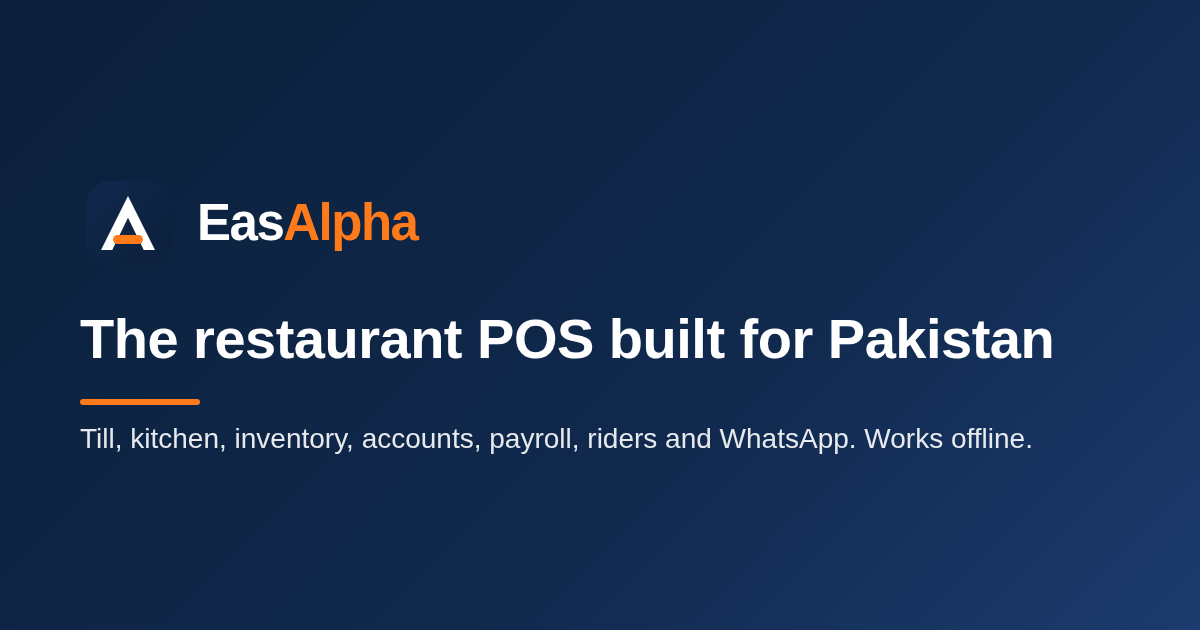
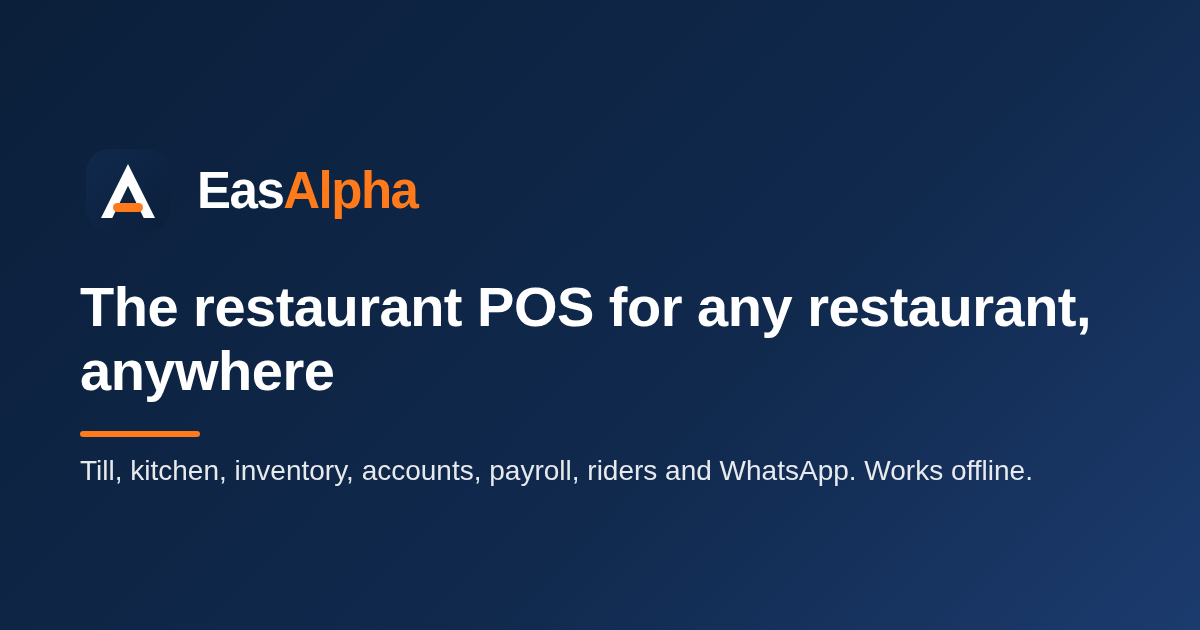
Plans: Pro 10 tills, Business unlimited; support 24/7; one tagline; ArfaPOS page removed
- Pro includes 10 tills (was 3) and Business unlimited tills (was 10), branches still up to 20.
  A nil till limit means unlimited: Billing::Issuer never bills extra tills on it, and migration
  20261017150000 updates the stored plans. The admin Plan estimate now matches the invoice
  (plan price plus each extra till, in rupees or dollars by country) instead of multiplying the
  plan price by the till count.
- Support is 24/7: the platform default, the site, the contact page, the welcome email, the
  terms and the office hours in JSON-LD (00:00 to 23:59). Migration 20261017151000 clears a
  stored value that still holds the old default.
- The share image says "The restaurant POS for any restaurant, anywhere", the tagline the
  title, homepage and footer already use; its URL is versioned so WhatsApp fetches the new one,
  and the Open Graph locale is en_US.
- /arfapos-alternative is taken down and redirects permanently to /pricing; five guides remain.

Changed region(s): [[0.0617, 0.4524, 0.925, 0.7841], [0.1542, 0.2714, 0.37, 0.3921], [0.0617, 0.2714, 0.1233, 0.3921]]

diff --git a/easalpha-web/src/app/(admin)/admin/settings/plan/page.tsx b/easalpha-web/src/app/(admin)/admin/settings/plan/page.tsx
@@ -3,13 +3,14 @@ import { useState } from "react";
 import { useQuery } from "@tanstack/react-query";
 import { BadgeDollarSign, CreditCard } from "lucide-react";
 import { api } from "@/lib/api";
-import type { Billing, BillingInvoice, BillingPlan } from "@/lib/types";
+import type { Billing, BillingInvoice } from "@/lib/types";
 import { formatMoney } from "@/lib/money";
 import { formatDate, formatDateTime } from "@/lib/dates";
 import { titleCase } from "@/lib/utils";
 import { Cards, PageHeader } from "@/components/admin/page";
 import { useAction } from "@/components/admin/crud";
 import { Badge, Button, Card, CardBody, CardHeader, CardTitle, Dialog, EmptyRow, Field, Input, Loading, Select, SummaryCard, Table, TBody, TD, TH, THead, TR, type BadgeVariant } from "@/components/ui";
+import { EXTRA_TILL_MINOR, billingCurrency, includedTills, planEstimate } from "@/lib/plan-price";
 
 // SPEC Plan: the subscription tier (Business in the reviewed account), trial or subscription state, invoices, and
 // how to pay. Choosing a plan issues an invoice; the owner reports the payment and EasAlpha confirms it.
@@ -44,14 +45,13 @@ export default function PlanPage() {
   const sub = b.subscription;
   const biz = b.business;
   const current = b.plans.find((p) => p.code === (sub?.plan_code ?? biz.plan?.code));
-  const price = (p: BillingPlan, cycle: "monthly" | "yearly") => (cycle === "yearly" ? p.price_pkr_minor * 10 : p.price_pkr_minor);
   const unpaid = b.invoices.filter((i) => ["unpaid", "pending", "overdue", "issued"].includes(i.status));
   const pi = b.payment_instructions;
   return (
     <>
       <PageHeader icon={BadgeDollarSign} title="Plan" description="Your subscription tier, what it allows, and the invoices behind it." actions={<Button onClick={() => setChoose({ plan_code: current?.code ?? b.plans[0]?.code ?? "", cycle: (sub?.billing_cycle as "monthly" | "yearly") ?? "monthly", tills: String(sub?.tills ?? 1) })}><CreditCard className="h-4 w-4" /> Choose plan</Button>} />
       <Cards>
-        <SummaryCard label="Current plan" value={current?.name ?? biz.plan?.name ?? "None"} sub={sub ? `${titleCase(sub.billing_cycle)} · ${sub.tills} till${sub.tills === 1 ? "" : "s"}` : biz.status === "trial" ? "On trial" : ""} />
+        <SummaryCard label="Current plan" value={current?.name ?? biz.plan?.name ?? "None"} sub={sub ? `${titleCase(sub.billing_cycle)} · ${tillsLabel(current ? includedTills(current) : 1, sub.tills)}` : biz.status === "trial" ? "On trial" : ""} />
         <SummaryCard label="State" value={<Badge variant={subscriptionVariant(sub?.status ?? biz.status)} className="text-sm">{titleCase(sub?.status ?? biz.status)}</Badge>}
           sub={biz.trial_ends_on && (sub?.status === "trialing" || biz.status === "trial") ? `Trial ends ${formatDate(biz.trial_ends_on)} (${biz.trial_days_left} days left)` : sub?.current_period_end ? `Period ends ${formatDate(sub.current_period_end)}` : ""} tone="info" />
         <SummaryCard label="Open invoices" value={unpaid.length} sub={unpaid.length ? formatMoney(unpaid.reduce((a, i) => a + i.amount_minor, 0)) + " due" : "Nothing due"} tone={unpaid.length ? "warning" : "success"} />
@@ -116,7 +116,7 @@ export default function PlanPage() {
             <Field label="Plan"><Select value={choose.plan_code} onChange={(e) => setChoose({ ...choose, plan_code: e.target.value })}>{b.plans.map((p) => <option key={p.code} value={p.code}>{p.name} - {formatMoney(p.price_pkr_minor)}/month</option>)}</Select></Field>
             <Field label="Billing cycle" hint="Yearly is ten months for the price of twelve"><Select value={choose.cycle} onChange={(e) => setChoose({ ...choose, cycle: e.target.value as "monthly" | "yearly" })}><option value="monthly">Monthly</option><option value="yearly">Yearly</option></Select></Field>
             <Field label="Tills"><Input type="number" min={1} className="tabular" value={choose.tills} onChange={(e) => setChoose({ ...choose, tills: e.target.value })} /></Field>
-            {(() => { const p = b.plans.find((x) => x.code === choose.plan_code); return p ? <p className="rounded-md bg-muted px-3 py-2 text-sm">Invoice for about <span className="font-medium">{formatMoney(price(p, choose.cycle) * Math.max(1, Number(choose.tills) || 1))}</span> per {choose.cycle === "yearly" ? "year" : "month"}. The exact amount is on the invoice.</p> : null; })()}
+            {(() => { const p = b.plans.find((x) => x.code === choose.plan_code); if (!p) return null; const inc = includedTills(p); const cur = billingCurrency(biz.country); return <p className="rounded-md bg-muted px-3 py-2 text-sm">Invoice for about <span className="font-medium">{formatMoney(planEstimate(p, choose.cycle, Math.max(1, Number(choose.tills) || 1), cur), cur)}</span> per {choose.cycle === "yearly" ? "year" : "month"}. {inc === null ? `${p.name} includes unlimited tills.` : `${p.name} includes ${inc} till${inc === 1 ? "" : "s"}; each extra till is ${formatMoney(EXTRA_TILL_MINOR[cur], cur)} a month.`} The exact amount is on the invoice.</p>; })()}
           </div>
         ) : null}
       </Dialog>
@@ -131,4 +131,11 @@ export default function PlanPage() {
       </Dialog>
     </>
   );
+}
+
+/** Tills on the current plan: what it includes, or the tills paid for when that is more; Business includes every till. */
+function tillsLabel(included: number | null, paid: number): string {
+  if (included === null) return "unlimited tills";
+  const n = Math.max(included, paid);
+  return `${n} till${n === 1 ? "" : "s"}`;
 }

diff --git a/easalpha-web/src/components/site/site-helpers.ts b/easalpha-web/src/components/site/site-helpers.ts
@@ -16,7 +16,8 @@ export interface Plan {
   tagline: string;
   pricePkrMinor: number;
   priceUsdMinor: number;
-  limits: { tills: number; staff: number | null; branches: number; whatsappMessages: number };
+  /** null means unlimited. */
+  limits: { tills: number | null; staff: number | null; branches: number; whatsappMessages: number };
   highlights: string[];
   features: Record<FeatureKey, boolean>;
   popular?: boolean;
@@ -59,8 +60,8 @@ export const PLANS: Plan[] = [
     tagline: "Kitchen, stock, riders and tax for a busy restaurant.",
     pricePkrMinor: 4_999_00,
     priceUsdMinor: 39_00,
-    limits: { tills: 3, staff: null, branches: 1, whatsappMessages: 1000 },
-    highlights: ["3 tills", "Unlimited staff", "Inventory with recipe deduction", "Riders and tables", "Kitchen display", "Online ordering and tax invoices", "1,000 WhatsApp messages a month"],
+    limits: { tills: 10, staff: null, branches: 1, whatsappMessages: 1000 },
+    highlights: ["10 tills", "Unlimited staff", "Inventory with recipe deduction", "Riders and tables", "Kitchen display", "Online ordering and tax invoices", "1,000 WhatsApp messages a month"],
     features: { kitchen_display: true, tables: true, riders: true, inventory: true, tax: true, online_ordering: true, multi_branch: false, payroll: false, loyalty: false, aggregators: false, own_whatsapp_number: false, custom_domain: false },
     popular: true,
   },
@@ -70,8 +71,8 @@ export const PLANS: Plan[] = [
     tagline: "Every branch, every surface, every report.",
     pricePkrMinor: 8_999_00,
     priceUsdMinor: 69_00,
-    limits: { tills: 10, staff: null, branches: 20, whatsappMessages: 3000 },
-    highlights: ["10 tills", "Up to 20 branches", "Loyalty and vouchers", "Attendance and payroll", "Foodpanda and aggregators", "Custom domain", "WhatsApp from your own number", "3,000 WhatsApp messages a month"],
+    limits: { tills: null, staff: null, branches: 20, whatsappMessages: 3000 },
+    highlights: ["Unlimited tills", "Up to 20 branches", "Loyalty and vouchers", "Attendance and payroll", "Foodpanda and aggregators", "Custom domain", "WhatsApp from your own number", "3,000 WhatsApp messages a month"],
     features: { kitchen_display: true, tables: true, riders: true, inventory: true, tax: true, online_ordering: true, multi_branch: true, payroll: true, loyalty: true, aggregators: true, own_whatsapp_number: true, custom_domain: true },
   },
 ];
@@ -266,6 +267,12 @@ export function signupPayload(input: SignupInput) {
 // Defaults only. The live values come from the product owner's platform settings (GET /platform, edited in the super
 // panel); contactFromPlatform maps them and every link helper takes the contact as its last argument.
 
+/** The link-preview image every page shares, with the one tagline used everywhere ("for any restaurant, anywhere").
+ *  The version query changes whenever the picture does, so WhatsApp, Facebook and X fetch the new one instead of
+ *  showing the copy they cached for the old address (17 Oct 2026: the old picture said "built for Pakistan"). */
+export const OG_IMAGE_PATH = "/og.png?v=20261017";
+export const OG_IMAGE_ALT = "EasAlpha: the restaurant POS for any restaurant, anywhere";
+
 /** The one-line description used by the layout metadata, Open Graph and the schema. 155 characters. */
 export const SITE_DESCRIPTION = "EasAlpha is the restaurant POS that keeps selling offline: till, kitchen display, inventory, accounts, payroll, riders and WhatsApp receipts. 90 days free.";
 
@@ -283,7 +290,7 @@ export const CONTACT: SiteContact = {
   phone: "+923437172731",
   phoneDisplay: "+92 343 7172731",
   address: OFFICE_ADDRESS,
-  hours: "10 am to 11 pm Pakistan time, every day",
+  hours: "24/7, every day of the year",
   productName: "EasAlpha",
 };
 

diff --git a/easalpha-web/src/lib/schema.ts b/easalpha-web/src/lib/schema.ts
@@ -1,6 +1,6 @@
 // JSON-LD for the public site, built as typed objects from the same data the pages render (plans, contact, FAQ),
 // so the structured data cannot drift from the visible content. Rendered through <JsonLd> (components/site/json-ld.tsx).
-import { CONTACT, OFFICE, PLANS, SITE_DESCRIPTION, TRIAL_DAYS, formatMoney, monthlyMinor, type Currency, type Plan, type SiteContact } from "@/components/site/site-helpers";
+import { CONTACT, OFFICE, OG_IMAGE_PATH, PLANS, SITE_DESCRIPTION, TRIAL_DAYS, formatMoney, monthlyMinor, type Currency, type Plan, type SiteContact } from "@/components/site/site-helpers";
 import { SITE_URL } from "@/app/sitemap";
 
 const CONTEXT = "https://schema.org" as const;
@@ -66,7 +66,7 @@ export function softwareApplication(): SoftwareApplication {
   return {
     "@context": CONTEXT, "@type": "SoftwareApplication", name: "EasAlpha", url: SITE_URL, description: SITE_DESCRIPTION,
     applicationCategory: "BusinessApplication", operatingSystem: "Windows, Linux, macOS, Android, iOS, Web",
-    image: `${SITE_URL}/og.png`, featureList: FEATURE_LIST, offers: allOffers(), publisher: { "@id": ORG_ID },
+    image: `${SITE_URL}${OG_IMAGE_PATH}`, featureList: FEATURE_LIST, offers: allOffers(), publisher: { "@id": ORG_ID },
   };
 }
 
@@ -77,16 +77,16 @@ export function faqPage(items: { q: string; a: string }[]): FaqPage {
 
 /** Block 5: the pricing page's product with offers. */
 export function pricingProduct(): Product {
-  return { "@context": CONTEXT, "@type": "Product", name: "EasAlpha restaurant POS", description: SITE_DESCRIPTION, image: `${SITE_URL}/og.png`, brand: { "@type": "Brand", name: "EasAlpha" }, offers: allOffers() };
+  return { "@context": CONTEXT, "@type": "Product", name: "EasAlpha restaurant POS", description: SITE_DESCRIPTION, image: `${SITE_URL}${OG_IMAGE_PATH}`, brand: { "@type": "Brand", name: "EasAlpha" }, offers: allOffers() };
 }
 
 /** The Lahore office as a local business for the contact page: address, phone, email and the support hours. */
 export function localBusiness(contact: SiteContact = CONTACT): LocalBusiness {
   return {
     "@context": CONTEXT, "@type": "LocalBusiness", "@id": `${SITE_URL}/contact#office`, name: `${contact.productName} (Lahore office)`, url: `${SITE_URL}/contact`,
-    image: `${SITE_URL}/og.png`, telephone: contact.whatsapp, email: contact.email,
+    image: `${SITE_URL}${OG_IMAGE_PATH}`, telephone: contact.whatsapp, email: contact.email,
     address: { "@type": "PostalAddress", streetAddress: OFFICE.street, addressLocality: OFFICE.city, addressRegion: OFFICE.region, addressCountry: OFFICE.countryCode },
-    openingHoursSpecification: [{ "@type": "OpeningHoursSpecification", dayOfWeek: ["Monday", "Tuesday", "Wednesday", "Thursday", "Friday", "Saturday", "Sunday"], opens: "10:00", closes: "23:00" }],
+    openingHoursSpecification: [{ "@type": "OpeningHoursSpecification", dayOfWeek: ["Monday", "Tuesday", "Wednesday", "Thursday", "Friday", "Saturday", "Sunday"], opens: "00:00", closes: "23:59" }],
     priceRange: `${formatMoney(PLANS[0].pricePkrMinor, "PKR")} to ${formatMoney(PLANS[PLANS.length - 1].pricePkrMinor, "PKR")} a month`,
     parentOrganization: { "@id": ORG_ID },
   };

diff --git a/easalpha-web/src/app/guides/page.tsx b/easalpha-web/src/app/guides/page.tsx
@@ -10,16 +10,16 @@ import { breadcrumbs, itemList } from "@/lib/schema";
 import { pageMetadata } from "@/components/site/seo";
 import { GUIDE_LINK, GuideText } from "@/components/site/guide-page";
 import { TRIAL_DAYS } from "@/components/site/site-helpers";
-import { CloudOff, Receipt, Scale } from "lucide-react";
+import { ChefHat, CloudOff, Receipt } from "lucide-react";
 
-export const metadata: Metadata = pageMetadata({ title: "Guides for restaurant owners", description: "Six plain-language guides on what decides a restaurant POS purchase in Pakistan: FBR and PRA e-invoicing, power cuts, the kitchen screen, stock, local payments and how EasAlpha compares.", path: "/guides" });
+export const metadata: Metadata = pageMetadata({ title: "Guides for restaurant owners", description: "Five plain-language guides on what decides a restaurant POS purchase: tax e-invoicing, power cuts, the kitchen screen, stock and local payments.", path: "/guides" });
 
 export default function GuidesPage() {
   return (
     <SiteShell>
       <JsonLd data={[breadcrumbs("Guides", "/guides"), itemList("EasAlpha guides", GUIDES.map((g) => ({ name: g.title, url: `/${g.slug}` })))]} />
-      <PageHero crumb="Guides" eyebrow="Guides" title="What to check before you buy a restaurant POS" text="Six short, specific guides written from the product as it is today, not from a roadmap. Each one answers the questions owners ask us most, with a FAQ at the end."
-        visual={<HeroStack chips={[{ icon: Receipt, title: "Tax filing", text: "FBR, PRA and the receipt" }, { icon: CloudOff, title: "Power cuts", text: "what still works offline" }, { icon: Scale, title: "Comparison", text: "EasAlpha and ArfaPOS side by side" }]} />} />
+      <PageHero crumb="Guides" eyebrow="Guides" title="What to check before you buy a restaurant POS" text="Five short, specific guides written from the product as it is today, not from a roadmap. Each one answers the questions owners ask us most, with a FAQ at the end."
+        visual={<HeroStack chips={[{ icon: Receipt, title: "Tax filing", text: "FBR, PRA and the receipt" }, { icon: CloudOff, title: "Power cuts", text: "what still works offline" }, { icon: ChefHat, title: "Kitchen", text: "tickets per station with timers" }]} />} />
       <Container className="py-16 lg:py-24">
         <GuideText className="mx-0">
           <p>A point of sale is bought once and lived with for years, so the questions worth asking are practical ones: will the receipt carry the authority&apos;s invoice number, what happens to a sale when the internet drops, does the kitchen see a changed order, will the stock figure be true by Thursday, and what does the whole thing cost in rupees. These guides answer each of those from the product itself. The short version of every feature is on the <Link href="/features" className={GUIDE_LINK}>features page</Link> and the plans are on the <Link href="/pricing" className={GUIDE_LINK}>pricing page</Link>; the guides go one level deeper.</p>

diff --git a/easalpha-web/src/app/contact/page.tsx b/easalpha-web/src/app/contact/page.tsx
@@ -10,14 +10,14 @@ import { trackAttrs } from "@/lib/analytics";
 import { JsonLd } from "@/components/site/json-ld";
 import { breadcrumbs, localBusiness } from "@/lib/schema";
 
-export const metadata: Metadata = pageMetadata({ title: "Contact us: WhatsApp, email or book a demo", description: "Talk to a person on WhatsApp or email, seven days a week during restaurant hours. Book a demo, ask about plans or get help moving from your current POS.", path: "/contact" });
+export const metadata: Metadata = pageMetadata({ title: "Contact us: WhatsApp, email or book a demo", description: "Talk to a person on WhatsApp or email, 24 hours a day, seven days a week. Book a demo, ask about plans or get help moving from your current POS.", path: "/contact" });
 
 export default async function ContactPage() {
   const contact = await getSiteContact();
   return (
     <SiteShell>
       <JsonLd data={[breadcrumbs("Contact", "/contact"), localBusiness(contact)]} />
-      <PageHero eyebrow="Contact" title="Talk to a person" text="WhatsApp is fastest. We answer in English and Urdu, seven days a week during restaurant hours."
+      <PageHero eyebrow="Contact" title="Talk to a person" text="WhatsApp is fastest. We answer in English and Urdu, 24 hours a day, seven days a week."
         visual={<HeroStack chips={[{ icon: MessageCircle, title: "WhatsApp", text: contact.whatsappDisplay }, { icon: Mail, title: "Email", text: contact.email }, { icon: Clock, title: "Hours", text: contact.hours }]} />} />
       <Container className="grid gap-12 py-20 lg:grid-cols-[1fr_1.4fr] lg:py-28">
         <div className="min-w-0 space-y-5">
@@ -46,7 +46,7 @@ export default async function ContactPage() {
             <span className={TILE_NAVY}><Clock className="h-6 w-6" /></span>
             <div>
               <h2 className="font-bold text-[#0B1F3A]">Hours</h2>
-              <p className="mt-1 text-sm text-slate-600">{contact.hours}. Account emergencies outside those hours: WhatsApp us and say it is urgent.</p>
+              <p className="mt-1 text-sm text-slate-600">{contact.hours}. For anything urgent, WhatsApp us and say so at the start of the message.</p>
             </div>
           </div>
         </div>

diff --git a/easalpha-web/src/app/restaurant-pos-pakistan/page.tsx b/easalpha-web/src/app/restaurant-pos-pakistan/page.tsx
@@ -79,7 +79,7 @@ export default function RestaurantPosPakistanPage() {
         <SectionHeading align="left" eyebrow="Getting started" title="Set up in an afternoon, in Lahore or anywhere in Pakistan" />
         <GuideText className="mx-0 mt-8">
           <p>Create the account, import the menu from a spreadsheet with an Urdu column if you have one, and pair the counter PC as a till with a 24-hour code. Thermal printers on 58 or 80 mm paper work over USB or the network, and tablets print through the counter PC&apos;s print server. Enter the branch&apos;s tax registration and add the payment accounts you take, and the first order can go through before the evening rush. Recipes, stock and payroll can be switched on later without stopping sales.</p>
-          <p>A few details are there because Pakistani restaurants asked for them. The business day can start and end at the hours you keep, so a 3 am close still counts as Friday&apos;s sales. Payroll records hold CNIC, department and designation, with daily wages or monthly salary and advances recovered on the run. Support answers in English and Urdu from 10 am to 11 pm, every day, from the office in Gulberg 3, Lahore.</p>
+          <p>A few details are there because Pakistani restaurants asked for them. The business day can start and end at the hours you keep, so a 3 am close still counts as Friday&apos;s sales. Payroll records hold CNIC, department and designation, with daily wages or monthly salary and advances recovered on the run. Support answers in English and Urdu around the clock, every day of the year, from the office in Gulberg 3, Lahore.</p>
           <p>If you run one counter today, the Starter plan at {price(0)} a month covers offline selling, receipts, customers, khata, expenses and the reports. Kitchen screens, stock, riders and tax invoices come with Pro, and Business adds branches, payroll, loyalty and WhatsApp from your own number. Compare them on the <Link href="/pricing" className={GUIDE_LINK}>pricing page</Link>, or <Link href="/contact" className={GUIDE_LINK}>message us on WhatsApp</Link> with your menu and we will set up a demo on it.</p>
         </GuideText>
       </Section>

diff --git a/easalpha-web/src/app/page.tsx b/easalpha-web/src/app/page.tsx
@@ -209,7 +209,7 @@ export default function HomePage() {
 
       {/* Guides */}
       <Section id="guides">
-        <SectionHeading eyebrow="In depth" title="The questions restaurants ask before they switch" text="Six short guides on the things that decide a POS purchase: tax filing, power cuts, the kitchen, stock, local payments and how we compare." />
+        <SectionHeading eyebrow="In depth" title="The questions restaurants ask before they switch" text="Five short guides on the things that decide a POS purchase: tax filing, power cuts, the kitchen, stock and local payments." />
         <p className="mt-6 text-center"><Link href="/guides" className={`py-3 font-semibold text-[#0B1F3A] underline decoration-[#FF7A1A] decoration-2 underline-offset-4 hover:text-[#C2410C]`}>All guides on one page</Link></p>
         <ul className="mt-12 grid gap-5 sm:grid-cols-2 lg:grid-cols-3">
           {GUIDES.map((g, i) => (
@@ -233,7 +233,7 @@ export default function HomePage() {
             <p className="mt-5 text-slate-600">Anything else? <Link href="/contact" {...trackAttrs("whatsapp_click", { where: "home_faq" })} className="py-3 font-semibold text-[#0B1F3A] underline decoration-[#FF7A1A] decoration-2 underline-offset-4 hover:text-[#C2410C]">Message us on WhatsApp</Link> and a person answers.</p>
             <div className={`mt-8 flex items-center gap-4 p-5 ${CARD}`}>
               <span className={TILE_ORANGE}><MessageCircle className="h-6 w-6" /></span>
-              <div className="text-[15px] leading-relaxed text-slate-600">We answer in English and Urdu, every day during restaurant hours, wherever you are.</div>
+              <div className="text-[15px] leading-relaxed text-slate-600">We answer in English and Urdu, 24/7, wherever you are.</div>
             </div>
           </div>
           <FaqList items={HOME_FAQ} />

diff --git a/easalpha-web/src/lib/plan-price.ts b/easalpha-web/src/lib/plan-price.ts
@@ -1,0 +1,29 @@
+import type { BillingPlan } from "@/lib/types";
+
+export type BillingCurrency = "PKR" | "USD";
+
+/** Each till beyond what the plan includes, a month: Rs 1,000 in Pakistan, $9 elsewhere, as Billing::Issuer charges. */
+export const EXTRA_TILL_MINOR: Record<BillingCurrency, number> = { PKR: 1_000_00, USD: 9_00 };
+
+/** Billing::Issuer invoices a Pakistani business in rupees and every other business in dollars. */
+export function billingCurrency(country: string | null | undefined): BillingCurrency {
+  return (country ?? "PK").toUpperCase() === "PK" ? "PKR" : "USD";
+}
+
+/** Tills the plan includes: null when the plan has no till limit (Business since 17 Oct 2026), 1 when it says nothing. */
+export function includedTills(plan: Pick<BillingPlan, "limits">): number | null {
+  const limits = (plan.limits ?? {}) as Record<string, number | null | undefined>;
+  if (!("tills" in limits)) return 1;
+  return limits.tills ?? null;
+}
+
+/** The invoice amount the API will issue: the plan price plus each extra till, times ten for a yearly cycle, in the
+ *  business's billing currency. The admin Plan page multiplied the whole plan price by the till count before, so
+ *  Business with 5 tills read Rs 44,995. */
+export function planEstimate(plan: Pick<BillingPlan, "limits" | "price_pkr_minor" | "price_usd_minor">, cycle: "monthly" | "yearly", tills: number, currency: BillingCurrency = "PKR"): number {
+  const included = includedTills(plan);
+  const extra = included === null ? 0 : Math.max(0, Math.floor(tills) - included);
+  const base = currency === "USD" ? plan.price_usd_minor ?? 0 : plan.price_pkr_minor;
+  const monthly = base + extra * EXTRA_TILL_MINOR[currency];
+  return cycle === "yearly" ? monthly * 10 : monthly;
+}

diff --git a/easalpha-web/next.config.ts b/easalpha-web/next.config.ts
@@ -25,7 +25,7 @@ const APP_HEADERS = [
 ];
 
 /** The marketing pages and the sign-up page; app screens are everything else. */
-const PUBLIC_PAGES = "/(features|pricing|download|contact|privacy|terms|signup|guides|restaurant-pos-pakistan|fbr-pos-integration|offline-pos-system|arfapos-alternative|kitchen-display-system|restaurant-inventory-software)";
+const PUBLIC_PAGES = "/(features|pricing|download|contact|privacy|terms|signup|guides|restaurant-pos-pakistan|fbr-pos-integration|offline-pos-system|kitchen-display-system|restaurant-inventory-software)";
 const PUBLIC_HEADERS = [
   { key: "Content-Security-Policy", value: CSP },
   { key: "Cross-Origin-Opener-Policy", value: "same-origin" },
@@ -88,6 +88,9 @@ const nextConfig: NextConfig = {
       { source: "/admin/inventory", destination: "/admin/inventory/stock-in-hand", permanent: false },
       { source: "/admin/inventory-reports", destination: "/admin/inventory-reports/daily-stock-sheet", permanent: false },
       { source: "/admin/riders", destination: "/admin/riders/manage", permanent: false },
+      // The ArfaPOS comparison page was taken down on 17 Oct 2026 at the owner's request; links already shared or
+      // indexed land on the plans instead of a 404.
+      { source: "/arfapos-alternative", destination: "/pricing", permanent: true },
       // One hostname for search engines: www is a permanent redirect to the apex, path and query kept.
       { source: "/:path*", has: [{ type: "host", value: "www.easalpha.com" }], destination: "https://easalpha.com/:path*", permanent: true },
       { source: "/admin/stock/deduction-audits", destination: "/admin/inventory-reports/deduction-health", permanent: true },

diff --git a/easalpha-web/src/app/layout.tsx b/easalpha-web/src/app/layout.tsx
@@ -8,7 +8,7 @@ import "./globals.css";
 import { Providers } from "@/components/providers";
 import { JsonLd } from "@/components/site/json-ld";
 import { organization, webSite } from "@/lib/schema";
-import { SITE_DESCRIPTION } from "@/components/site/site-helpers";
+import { OG_IMAGE_ALT, OG_IMAGE_PATH, SITE_DESCRIPTION } from "@/components/site/site-helpers";
 
 // No weight list: next/font then serves Google's variable Inter, one file for every weight instead of five, so the
 // headline (the largest contentful paint on phones) swaps to the real font sooner.
@@ -31,11 +31,11 @@ export const metadata: Metadata = {
   manifest: "/manifest.json",
   icons: { icon: [{ url: "/favicon-32.png", sizes: "32x32", type: "image/png" }, { url: "/icon.svg", type: "image/svg+xml" }], apple: "/icon-192.png" },
   openGraph: {
-    type: "website", siteName: "EasAlpha", locale: "en_PK", url: SITE_URL,
+    type: "website", siteName: "EasAlpha", locale: "en_US", url: SITE_URL,
     title: "EasAlpha: restaurant POS for any restaurant, anywhere", description: DESCRIPTION,
-    images: [{ url: "/og.png", width: 1200, height: 630, alt: "EasAlpha restaurant POS" }],
+    images: [{ url: OG_IMAGE_PATH, width: 1200, height: 630, alt: OG_IMAGE_ALT }],
   },
-  twitter: { card: "summary_large_image", title: "EasAlpha: restaurant POS for any restaurant, anywhere", description: DESCRIPTION, images: ["/og.png"] },
+  twitter: { card: "summary_large_image", title: "EasAlpha: restaurant POS for any restaurant, anywhere", description: DESCRIPTION, images: [OG_IMAGE_PATH] },
 };
 
 export const viewport: Viewport = {

diff --git a/easalpha-web/src/lib/plan-price.test.ts b/easalpha-web/src/lib/plan-price.test.ts
@@ -1,0 +1,26 @@
+import { describe, expect, it } from "vitest";
+import { billingCurrency, includedTills, planEstimate } from "./plan-price";
+
+const pro = { price_pkr_minor: 4_999_00, price_usd_minor: 39_00, limits: { tills: 10, branches: 1 } };
+const business = { price_pkr_minor: 8_999_00, price_usd_minor: 69_00, limits: { tills: null, branches: 20 } };
+
+describe("plan estimate (matches Billing::Issuer)", () => {
+  it("charges extra tills only beyond what the plan includes", () => {
+    expect(planEstimate(pro, "monthly", 10)).toBe(4_999_00);
+    expect(planEstimate(pro, "monthly", 12)).toBe(4_999_00 + 2 * 1_000_00);
+    expect(planEstimate(pro, "yearly", 12)).toBe((4_999_00 + 2 * 1_000_00) * 10);
+  });
+  it("never charges extra tills on a plan with no till limit", () => {
+    expect(includedTills(business)).toBeNull();
+    expect(planEstimate(business, "monthly", 40)).toBe(8_999_00);
+  });
+  it("reads a plan that states no till limit as one till", () => {
+    expect(includedTills({ limits: { branches: 1 } })).toBe(1);
+  });
+  it("bills a business outside Pakistan in dollars, $9 for each extra till", () => {
+    expect(billingCurrency("PK")).toBe("PKR");
+    expect(billingCurrency("AE")).toBe("USD");
+    expect(planEstimate(pro, "monthly", 12, "USD")).toBe(39_00 + 2 * 9_00);
+    expect(planEstimate(business, "yearly", 30, "USD")).toBe(69_00 * 10);
+  });
+});

diff --git a/easalpha-web/src/components/site/pricing-table.tsx b/easalpha-web/src/components/site/pricing-table.tsx
@@ -86,7 +86,7 @@ export function PricingTable({ compact = false }: { compact?: boolean }) {
               </tr>
             </thead>
             <tbody className="divide-y divide-slate-200">
-              <tr><th scope="row" className="px-5 py-3 text-left font-medium text-slate-700">Tills</th>{PLANS.map((p) => <td key={p.code} className="px-5 py-3 text-slate-700">{p.limits.tills}</td>)}</tr>
+              <tr><th scope="row" className="px-5 py-3 text-left font-medium text-slate-700">Tills</th>{PLANS.map((p) => <td key={p.code} className="px-5 py-3 text-slate-700">{p.limits.tills === null ? "Unlimited" : p.limits.tills}</td>)}</tr>
               <tr><th scope="row" className="px-5 py-3 text-left font-medium text-slate-700">Staff logins</th>{PLANS.map((p) => <td key={p.code} className="px-5 py-3 text-slate-700">{p.limits.staff === null ? "Unlimited" : p.limits.staff}</td>)}</tr>
               <tr><th scope="row" className="px-5 py-3 text-left font-medium text-slate-700">Branches</th>{PLANS.map((p) => <td key={p.code} className="px-5 py-3 text-slate-700">{p.limits.branches}</td>)}</tr>
               <tr><th scope="row" className="px-5 py-3 text-left font-medium text-slate-700">WhatsApp messages a month</th>{PLANS.map((p) => <td key={p.code} className="px-5 py-3 text-slate-700">{p.limits.whatsappMessages.toLocaleString("en-US")}</td>)}</tr>
